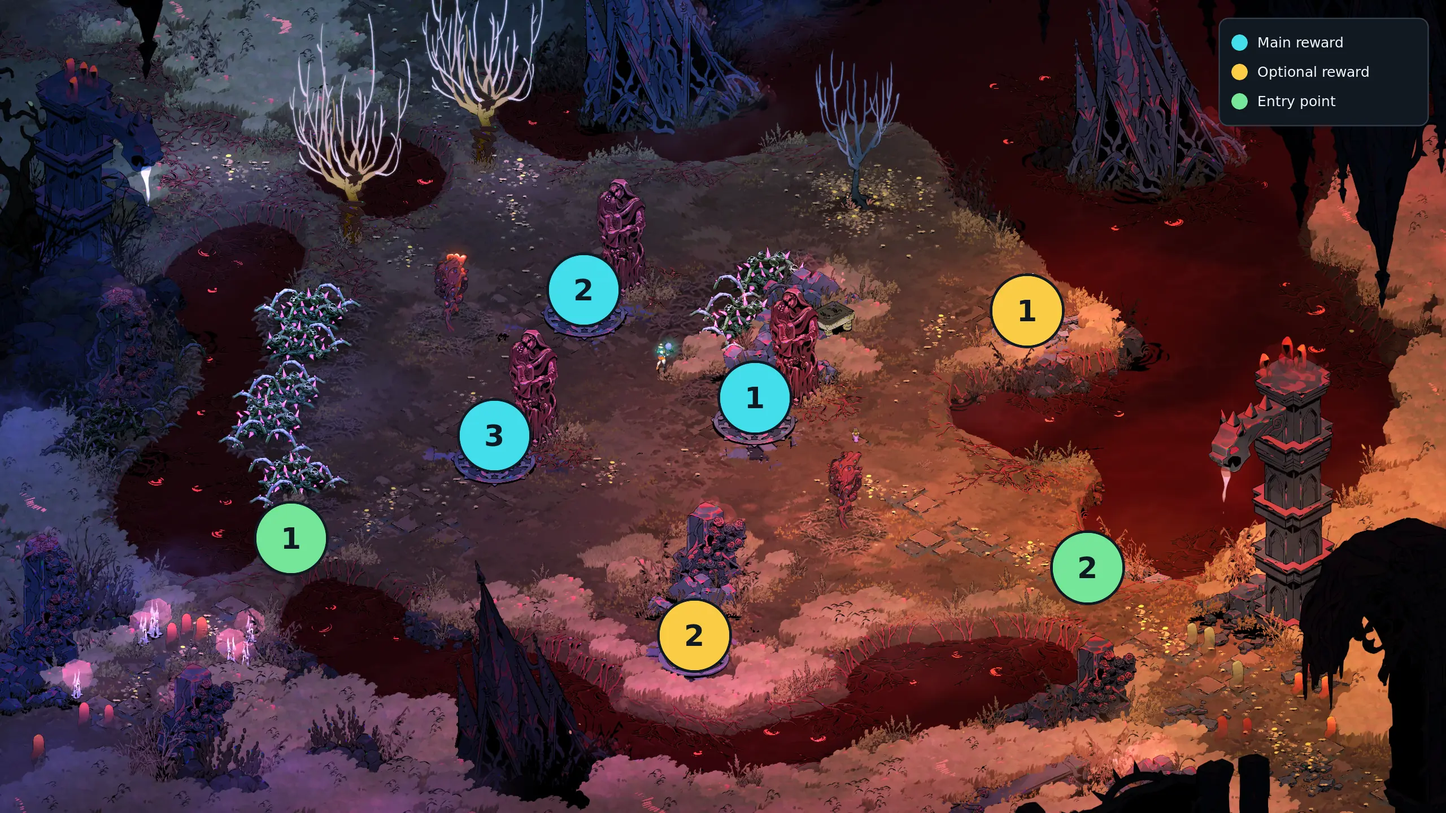
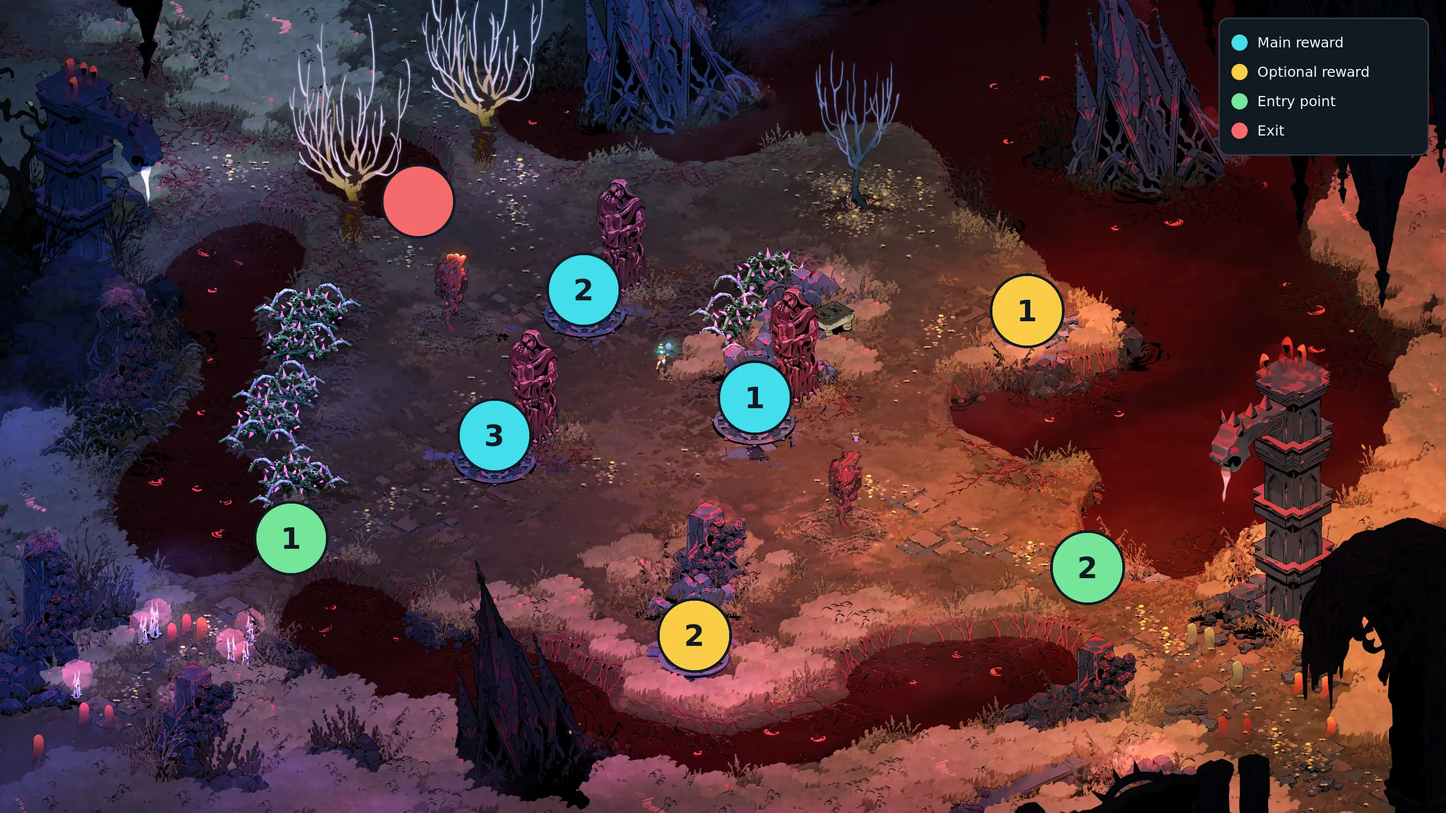
feat(planner): mark exits on Fields combat maps

Changed region(s): [[0.8438, 0.125, 0.9375, 0.2188], [0.25, 0.1875, 0.3125, 0.3125], [0.9688, 0.1562, 1.0, 0.1875]]

diff --git a/apps/planner/src/ui/room-maps/README.md b/apps/planner/src/ui/room-maps/README.md
@@ -19,8 +19,8 @@ WebPs unless replacing them from a source image. For example:
 convert source.png -quality 90 -define webp:method=6 -define webp:lossless=false RoomName.webp
 ```
 
-Fields annotations belong in the image itself and identify Entry, Cage, and
-Optional positions. Stitch split captures and verify the full room's markers
+Fields annotations belong in the image itself and identify Entry, Cage, Optional,
+and Exit positions. Stitch split captures and verify the full room's markers
 before exporting the final image; never use one half as the complete map.
 
 `N_Hub.webp` is a clean background. `HubMapAnnotations.tsx` owns the door positions
